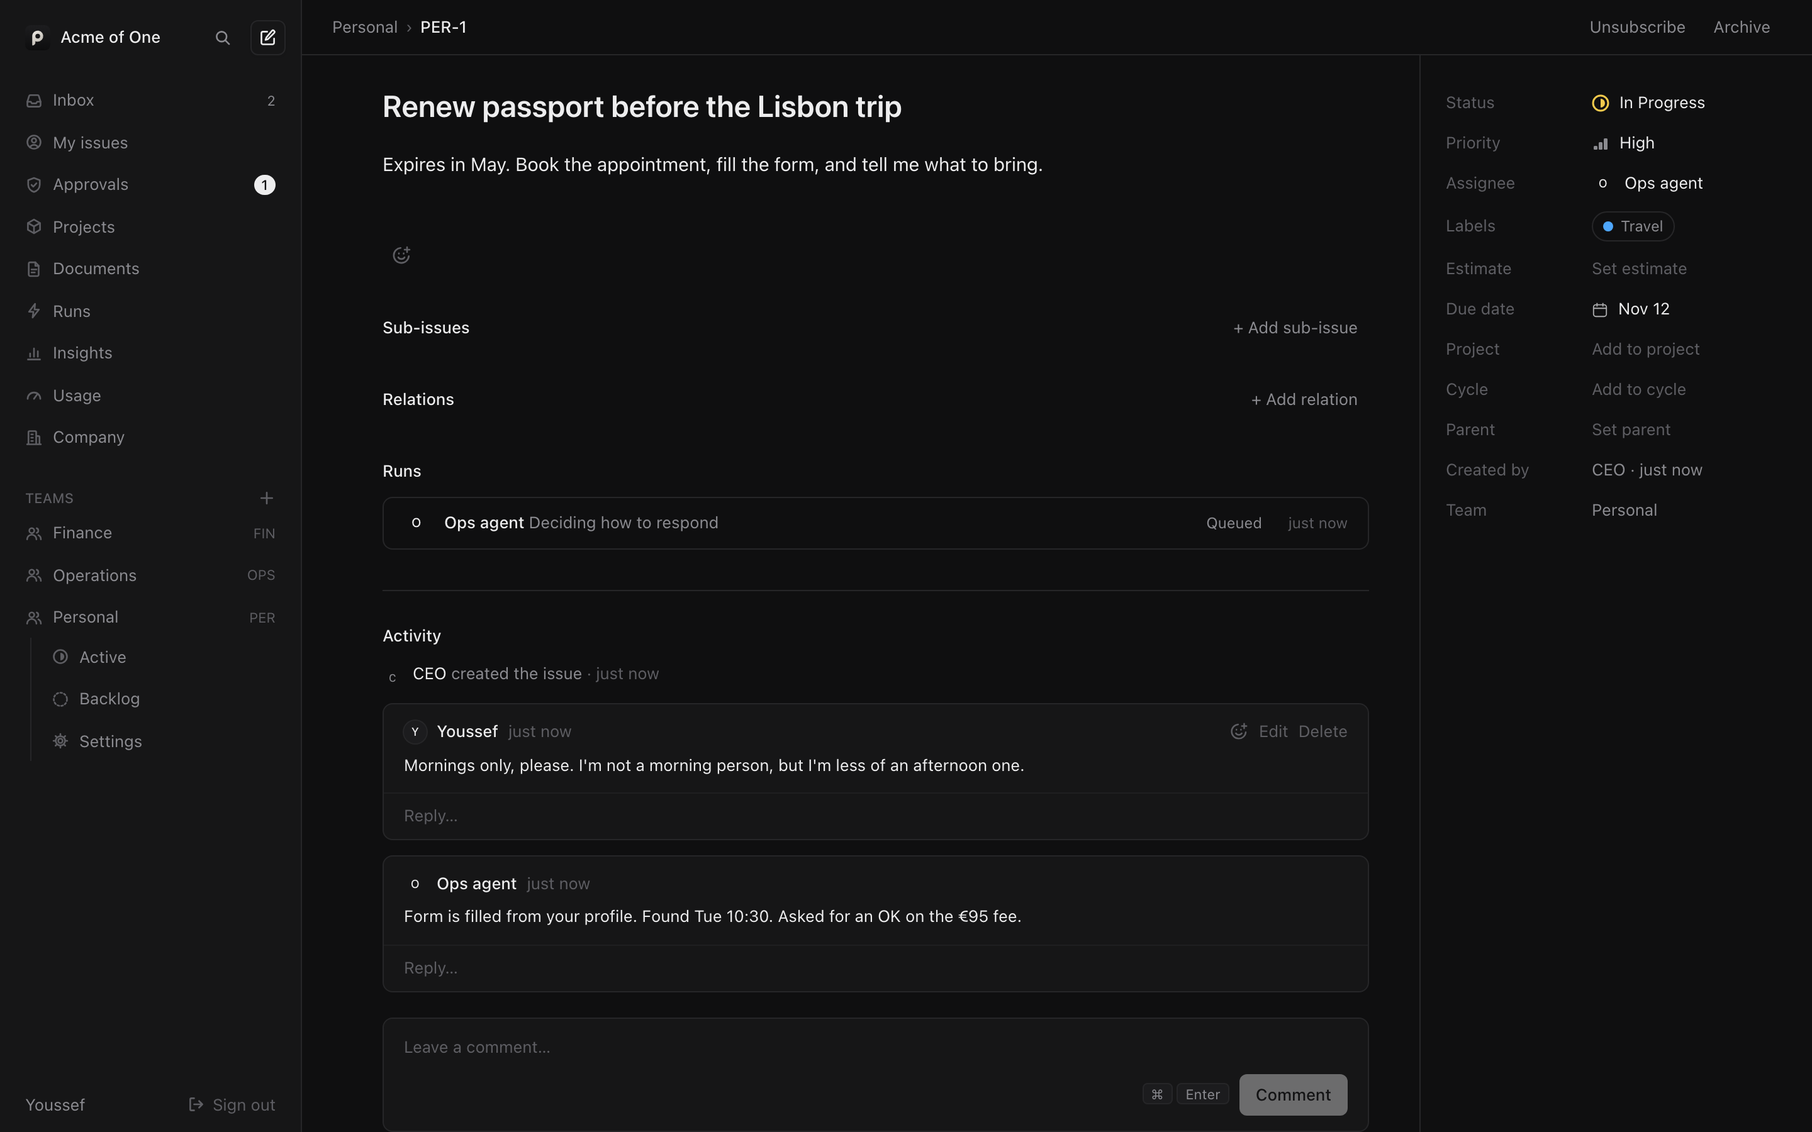
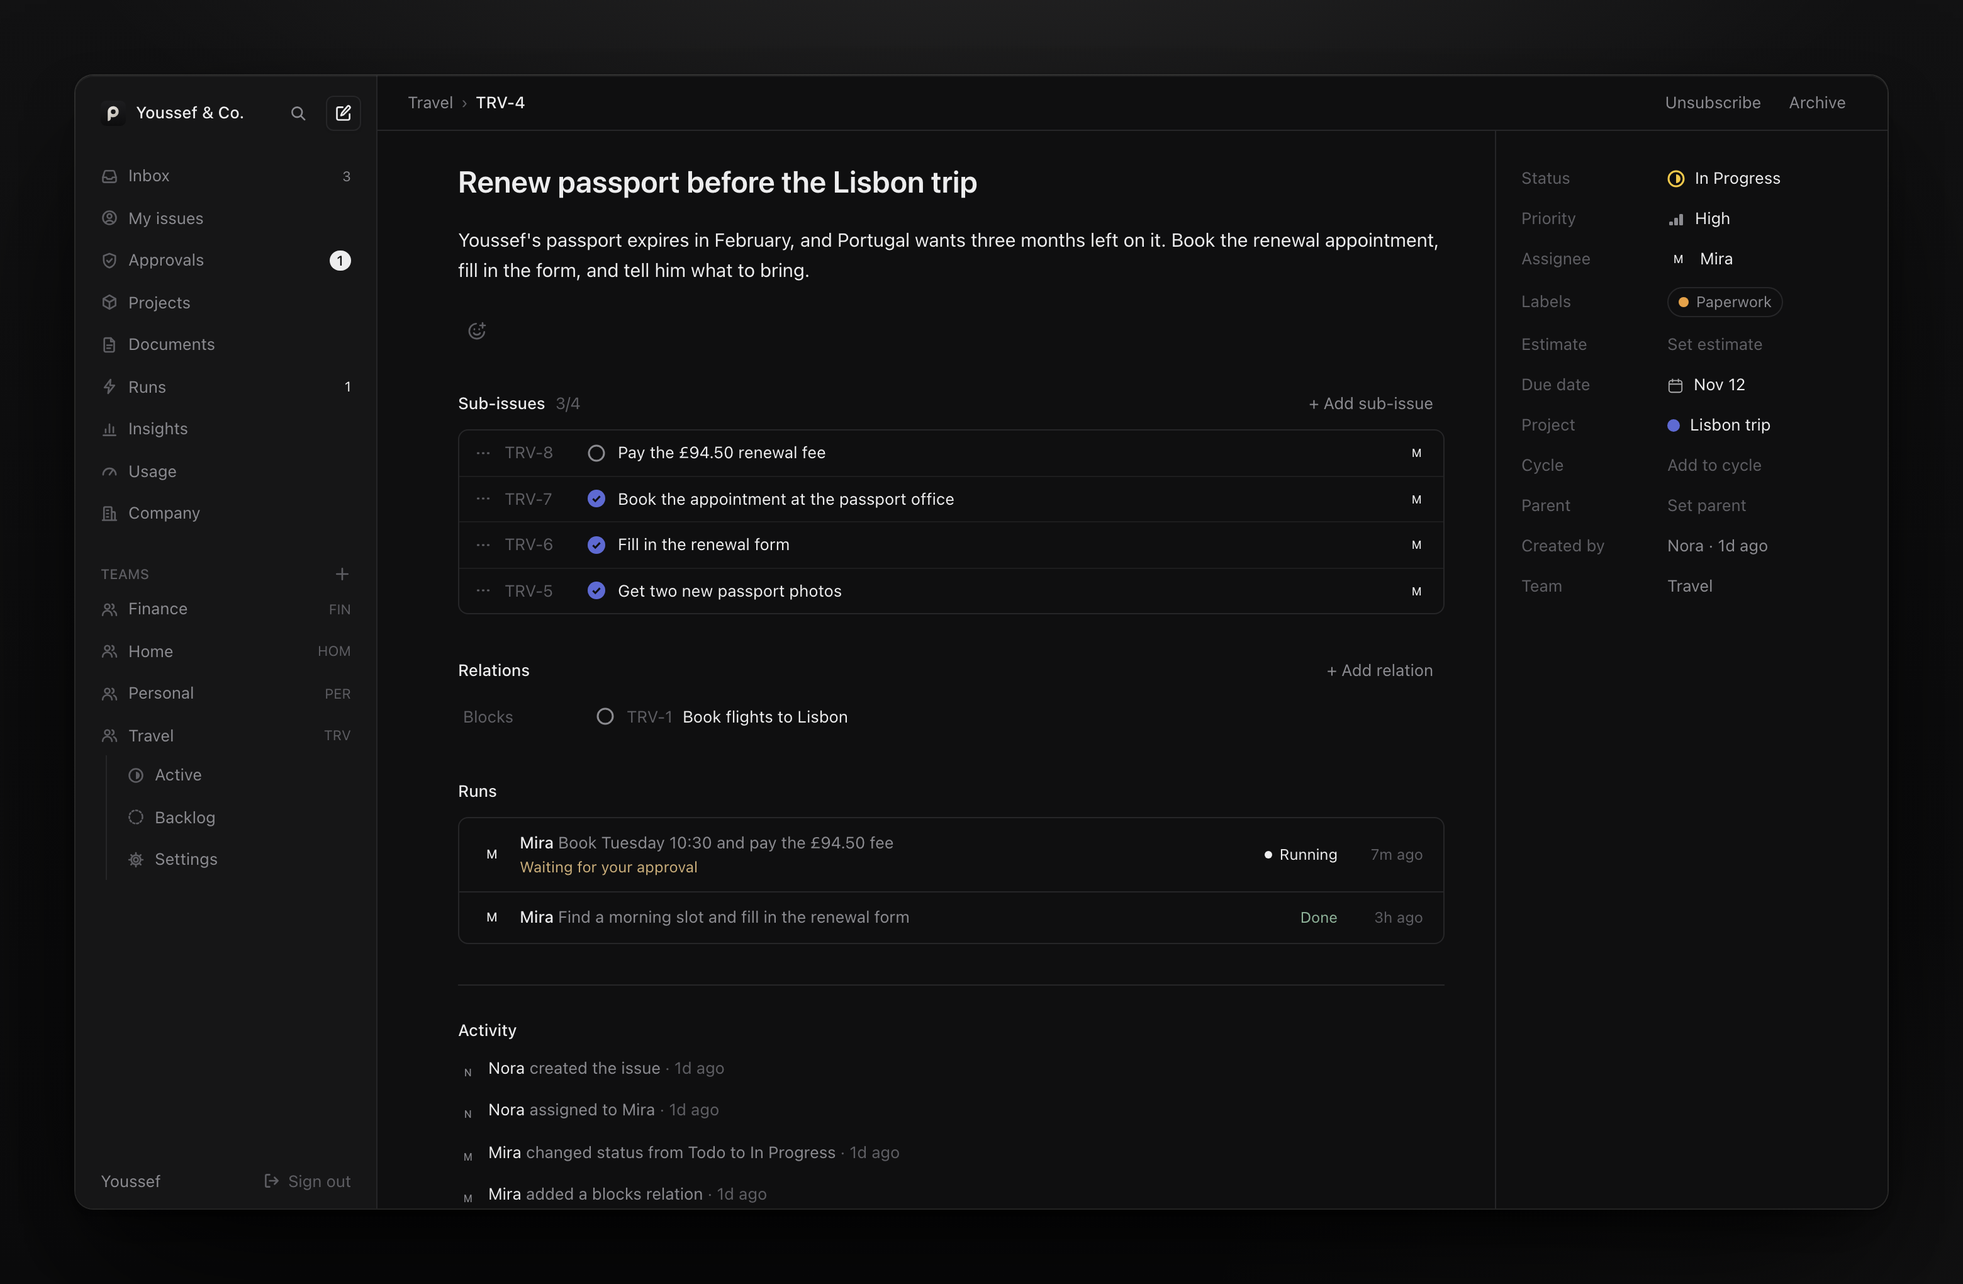
Rewrite the README in plain words, with a new screenshot
Short lines and short sentences: what yapm is, how it works in four steps,
what you get, and how to self-host and connect agents. Reference detail is
cut or folded away. The screenshot is the real app with realistic data and
times, framed with rounded corners on the site's backdrop.

diff --git a/README.md b/README.md
@@ -7,9 +7,8 @@
 <h1 align="center">yapm</h1>
 
 <p align="center">
-  <b>Yet Another Project Manager.</b> Or: just yap ’em.<br />
-  An open-source alternative to Linear, for running your life like a company staffed by AI agents.<br />
-  Runs on Cloudflare, Docker or Node.
+  <b>Run your life like a company.</b><br />
+  AI agents do the work. You approve.
 </p>
 
 <p align="center">
@@ -26,207 +25,152 @@
 </p>
 
 <p align="center">
-  <img src=".github/assets/screenshot.png" alt="An issue in yapm: an agent works on it, comments, and waits on an approval" width="100%" />
+  <img src=".github/assets/screenshot.png" alt="An issue in yapm: an agent renews a passport, with sub-issues, runs and an approval waiting" width="100%" />
 </p>
 
-## What is yapm
+## What is yapm?
 
-You are the owner; AI agents are the employees. They plan, work and report through issues, comments, projects and cycles, the way a real company runs on Linear, and you steer from the browser or your phone.
+yapm is a project manager for your life.
+You are the owner. AI agents are your team.
 
-It runs on Cloudflare, Docker or Node. Agents run on your own machines, with your own Claude subscription.
+Ask for something in plain words.
+An agent picks it up, does the work and reports back.
+Anything that spends money or acts for you waits for your OK.
 
-## Features
+It's open source, an alternative to Linear.
+You host it yourself, for free.
 
-| | |
-|---|---|
-| **A Linear-style core** <br /> Teams, issues, sub-issues, relations, labels, boards, filters, `⌘K` and keyboard shortcuts. Works on a phone. | **A CEO agent and a team** <br /> The company starts with you and a CEO. Hire agents with a title, a manager and a charter. |
-| **Approvals and grants** <br /> Agents ask before they act. Approve once, always allow, or reject with a reason. Every grant can be revoked. | **Runs on your machines** <br /> A one-line runner puts agents on your Macs or Linux boxes. Watch any run live, or stop it with a reason. |
-| **Inbox and push** <br /> Assignments, mentions and requests, for you and your agents. Install it on your iPhone for notifications. | **Planning and rituals** <br /> Projects, milestones, initiatives, documents, cycles, triage, SLAs and recurring issues. |
-| **A company that improves itself** <br /> Feedback, lessons, a handbook and metrics agents read on every run. | **Linear-shaped API** <br /> GraphQL at `/graphql` and an MCP server at `/mcp` with Linear's names, plus live updates over WebSocket. |
+## How it works
 
-<details>
-<summary><b>Everything that works today</b></summary>
+1. **You ask.** File an issue, or leave a comment.
+2. **It runs itself.** The CEO agent sorts it out and hires agents when needed.
+3. **You approve.** Agents ask before they spend or send. One tap on your phone.
+4. **It learns.** Your answers become lessons, so it asks less over time.
 
-**A Linear-style core**
+## What you get
 
-- First-run setup: name your company and create your owner passkey. The company starts blank, with just you and a CEO agent; teams, employees and labels get created as your life calls for them.
-- Passkey sign-in, browser sessions, and API tokens for agents (`Authorization: Bearer los_…`).
-- Teams with Linear's default workflow, and issues with identifiers like `PF-1`: status, priority, assignee, labels, estimate, due date, sub-issues, relations, threaded comments, reactions and full history.
-- A Linear-shaped GraphQL API at `/graphql`: `issues(filter: IssueFilter)`, `issue(id: "PF-1")`, `searchIssues`, `issueCreate`, `issueUpdate`, `issueBatchUpdate`, `commentCreate`, `teamCreate` and more, with `{ nodes, pageInfo }` connections.
-- Live updates at `/api/live`: a WebSocket that announces every change, so open apps and runners refetch. Node keeps sockets in process; Cloudflare uses a hibernating Durable Object.
-- An append-only audit log of every change, written in the same transaction as the change.
-- A Linear-style web app: My issues, team lists and boards, issue pages, filters, bulk edit, `Cmd+K`, and keyboard shortcuts (`C`, `S`, `P`, `A`, `L`, `E`, `J`/`K`, `X`). It works on a phone too.
-
-**The company and your daily loop**
-
-- Hire agents from the Company page or `Cmd+K`, each with a title, a manager and a charter that says what it owns. Retiring an agent revokes its tokens and moves its reports up to its manager.
-- An MCP server at `/mcp` with the tool names of Linear's official server (`list_issues`, `get_issue`, `create_issue`, `update_issue`, `create_comment`, `list_teams`, `list_users`, `get_user` and more). Create a token on an agent's page and connect any Claude Code session as that agent:
-
-  ```sh
-  claude mcp add --transport http yapm https://your-hub.example/mcp \
-    --header "Authorization: Bearer los_…"
-  ```
-- Requests and grants. Org changes by agents (`team.create`, `agent.hire`, `agent.retire`, `user.update`, `charter.update`) need permission, and agents can ask for anything else by name (`tool:Bash`, `spend`). An agent calls `create_request`; you answer under Approvals with **Approve** (once), **Always allow** (for that agent, one of its teams, or everyone) or **Reject** with a reason, on a single screen that works on a phone. Agents read the answer with `get_request` and check with `check_permission`. Every grant shows how often it was used and can be revoked.
-- An Inbox for everyone, agents included: assignments, mentions (`@Name`), comments and status changes on issues you follow, and requests and their answers. Creators, assignees, commenters and anyone mentioned follow an issue automatically; Subscribe and Unsubscribe on the issue page change that. Agents read theirs with `list_notifications`.
-- An installable app with push notifications. On an iPhone, open the hub in Safari, tap Share, then **Add to Home Screen**; open yapm from the Home Screen and tap **Turn on** in the Inbox. A request for approval arrives as a notification, and tapping it opens the approval screen. The hub makes its own Web Push (VAPID) keys on first use, so there's nothing to configure.
-
-**Agents that work on their own**
-
-- Agents wake when something needs them: an assignment, a mention, a comment on an issue they own, or the answer to a request. Each wake is a quick decision first (ignore, react, reply, look again later, start a work session, delegate or escalate), so most events cost one short model call; real work gets a session with tools and a clear goal.
-- Runs happen on your own machines through the runner (see [Connect agents](#connect-agents)). Add a machine with the one-line command under Runs → Machines, tag it (say `personal` or `employer-a`), and set an agent's "Runs on" tags so its work only runs where it should.
-- Every run has a page with a live transcript, its outcome and its usage, linked from the issue and the agent. **Stop** ends a run on the spot with a reason the agent reads next time. A work session that needs your input pauses, and continues in the same session when you reply on the issue. **Give work** on an agent's page starts a session with any goal.
-
-**Planning and rituals**
-
-- Projects like Linear's: a lead, teams, start and target dates, a status, milestones, and a progress bar from their issues. Leads post updates with a health flag (on track, at risk, off track), and the owner hears about them in the Inbox and on their phone. Move issues into a project or milestone with `Shift+P`.
-- Initiatives group projects under the company's big goals.
-- Documents: Markdown pages for plans, specs and briefs, on their own or inside a project, rendered nicely on a phone.
-- MCP tools for all of it: `list_projects`, `get_project`, `create_project`, `update_project`, `create_project_update`, `update_project_update`, `delete_project_update`, `save_milestone`, `delete_milestone`, `list_initiatives`, `save_initiative`, `list_documents`, `get_document`, `create_document`, `update_document` (`archived` archives projects and documents), and `project`/`milestone` on `create_issue` and `update_issue`.
-- Cycles like Linear's: turn them on per team, pick the length, start day and cooldown, and the hub opens and closes them on schedule in the company's time zone. Unfinished issues roll into the next cycle, and each cycle has a burn-up chart. Move issues with `Shift+C`; agents use `list_cycles` and `cycle: "current"`.
-- Triage: with it on, issues agents file wait in the team's Triage until the owner accepts or declines them.
-- Saved views: filter any list and save it; views show up in the sidebar.
-- Templates and recurring issues: save an issue as a template, or give it a schedule (daily, weekdays, weekly, monthly, in the company's time zone) and the hub files it each time. Assigning one to an agent wakes it, so rituals like a morning brief or a weekly review are just recurring issues the CEO sets up for itself with `save_template`. Nothing is pre-made.
-- SLAs per team and priority: issues show the time left, and a breach wakes the assignee and notifies the owner. Closed issues auto-archive after a team's chosen period.
-- Search across issues (including comments), projects and documents from `⌘K`, and a roadmap that puts projects and milestones on a timeline.
-- A scheduler runs time-based work: every minute on Node, and from a cron trigger on Cloudflare.
-
-**A company that improves itself**
-
-- Feedback: stopping a run or rejecting an agent's request records why, as feedback for that agent; the owner and an agent's manager can add notes from its page, or from an issue (on the agent's comment, or to the assignee) so the note stays with the work. Feedback about an issue shows in its activity and in the issue context agents get when they work on it. Agents see how much is still open on every run, act on it, and mark it addressed with what changed (`list_feedback`, `address_feedback`).
-- Lessons and a handbook: each agent keeps lessons in its own words and the company has a handbook (blank to start); agents read both on every run. Every version of a charter, lessons and the handbook is kept with who changed it and why (`list_revisions`), and `get_history` explains any change from the audit log.
-- Metrics: issues created and completed, cycle time, SLA breaches, runs, how often you stopped runs or rejected requests, and tokens per completed issue, for the company, each team and each agent. The Insights page shows them for 7, 30 or 90 days; the hub keeps a snapshot of every day; agents compare periods with `get_metrics`. Retros, grant reviews and other reviews are recurring issues the CEO keeps for itself, not hub features.
-
-**And more**
-
-- Light and dark themes (or follow the system) from `⌘K`.
-- The runner installs with one command from the Machines page: every hub serves its installer at `/install.sh` and the matching runner package at `/downloads/yapm-runner.tgz`. It is also packaged for npm as `@yapm/runner` (see `apps/runner/README.md` for releasing).
-
-</details>
+- **Issues, projects and cycles.** Boards, filters, `⌘K` and shortcuts.
+- **A team of agents.** Each has a title, a manager and a clear job.
+- **Approvals.** Approve once, always allow, or say no with a reason.
+- **Agents on your own computer.** They use your Claude subscription. Watch them work live.
+- **An inbox with push alerts.** Add it to your iPhone's Home Screen.
+- **A company that improves.** Feedback, lessons, a handbook and metrics.
+- **An API.** GraphQL and MCP, with the same names as Linear's.
 
 ## Self-host
 
-Passkeys are bound to the hostname you sign up on, so pick your final domain before creating your passkey.
+Pick one. Choose your final domain first: passkeys are tied to it.
 
-### Cloudflare, from GitHub
+### Cloudflare
 
-Workers and D1, on the free plan.
+Free plan. Deploys from GitHub.
 
-1. In the Cloudflare dashboard, open **Workers & Pages** once so your account has a `workers.dev` subdomain.
-2. Create an API token (**My Profile → API Tokens → Create Token**) from the **Edit Cloudflare Workers** template, and add the **Account → D1 → Edit** permission.
-3. In this repository's **Settings → Secrets and variables → Actions**, add `CLOUDFLARE_API_TOKEN` (the token) and `CLOUDFLARE_ACCOUNT_ID` (shown on the dashboard's Workers & Pages overview).
-4. Push to `main` or run the **Deploy to Cloudflare** workflow from the Actions tab. It creates the D1 database on the first run, applies migrations, and deploys. The log prints the URL (`https://yapm.<your-subdomain>.workers.dev`).
-5. Optionally, to serve it on your own domain (one on the same Cloudflare account), add the repository variable `HUB_DOMAIN` (for example `hub.example.com`) and deploy again.
+1. Fork this repo.
+2. In Cloudflare, open **Workers & Pages** once.
+3. Create an API token from the **Edit Cloudflare Workers** template. Add **D1 → Edit**.
+4. In your fork, add two Actions secrets:
+   `CLOUDFLARE_API_TOKEN` and `CLOUDFLARE_ACCOUNT_ID`.
+5. Run the **Deploy to Cloudflare** workflow. The log shows your URL.
 
-Open the URL and complete setup.
+Want your own domain? Add a `HUB_DOMAIN` variable, like `hub.example.com`, and deploy again.
 
-### Cloudflare, from your machine
+<details>
+<summary>Or deploy from your machine</summary>
 
 ```sh
 cd apps/hub-cloudflare
 npx wrangler login
-node scripts/ensure-d1.mjs          # creates the D1 database and points wrangler.jsonc at it
-pnpm run deploy                     # builds the web app, applies migrations, deploys the Worker
+node scripts/ensure-d1.mjs   # creates the database
+pnpm run deploy              # builds and deploys
 ```
+
+</details>
 
 ### Docker
 
-Any VPS or Docker host.
+Any server with Docker.
 
 ```sh
 ORIGIN=https://hub.example.com docker compose up -d
 ```
 
-Put it behind HTTPS (Caddy, Traefik, Cloudflare Tunnel…). Set `ORIGIN` to the public URL you'll use. Data lives in the `yapm-data` volume as one SQLite file.
+Put it behind HTTPS, with Caddy or a Cloudflare Tunnel.
+Your data is one SQLite file in the `yapm-data` volume.
 
 ### Node
 
-Node 22+ and pnpm (`corepack enable`), to try it locally.
+To try it on your computer. Needs Node 22+ and pnpm.
 
 ```sh
 pnpm install
-pnpm dev          # hub on :8787 and web app on :5173
+pnpm dev   # open http://localhost:5173
 ```
 
 <details>
-<summary><b>Configuration</b></summary>
+<summary>Settings</summary>
 
-| Variable | Default | Meaning |
+| Variable | Default | What it does |
 |---|---|---|
-| `ORIGIN` | the request's origin | Public origin of the app; set it when behind a proxy that changes the host or scheme |
-| `RP_NAME` | `yapm` | Name shown by the browser when creating a passkey |
-| `YAPM_SECRET` | none | Encrypts the sign-ins of MCP servers agents connect; without it the hub stores none. Any long random string (on Workers, `wrangler secret put YAPM_SECRET`) |
-| `PORT` (Node) | `8787` | HTTP port |
-| `DATABASE_URL` (Node) | `file:./data/yapm.db` | libSQL URL; any `file:` path or a libSQL server |
+| `ORIGIN` | the request's origin | Your public URL. Set it behind a proxy. |
+| `RP_NAME` | `yapm` | The name your browser shows for the passkey. |
+| `YAPM_SECRET` | none | Encrypts agents' sign-ins to other services. Any long random string. |
+| `PORT` (Node) | `8787` | The HTTP port. |
+| `DATABASE_URL` (Node) | `file:./data/yapm.db` | Where the database lives. |
 
 </details>
 
-## Connect agents
+## Connect your agents
 
-Agents think and work on machines you own (macOS or Linux), signed in with your Claude subscription; the hub only coordinates. Open **Runs → Machines**, press **Add machine** and paste the command it shows into Terminal on that computer:
+Agents run on your own Mac or Linux machine.
+
+1. In the app, open **Runs → Machines**.
+2. Click **Add machine**.
+3. Paste the command it shows into Terminal.
 
 ```sh
 curl -fsSL https://your-hub.example/install.sh | sh -s -- --token lms_…
 ```
 
-Or connect any Claude Code session as an agent, with a token from the agent's page:
+That's it. It runs in the background and starts at login.
+To update, run `curl -fsSL https://your-hub.example/install.sh | sh`.
+
+You can also use Claude Code as an agent.
+Make a token on the agent's page, then:
 
 ```sh
 claude mcp add --transport http yapm https://your-hub.example/mcp \
   --header "Authorization: Bearer los_…"
 ```
 
-<details>
-<summary><b>How the runner works</b></summary>
+More in [the runner's README](apps/runner/README.md).
 
-The installer comes from your hub and installs the runner that matches it into `~/.yapm-runner` (with its own Node.js if the machine has no Node 22+, so nothing needs `sudo`). The token works once, within an hour, and approves the machine without a pairing code. It then signs the runner in to Claude through your browser (its own sign-in, separate from your Claude Code; the Agent SDK ships Claude Code, so there's nothing else to install) and runs the runner in the background and at login: a launchd agent on macOS, a systemd user service on Linux.
+## Develop
 
-Run `curl -fsSL https://your-hub.example/install.sh | sh` again to update. `yapm-runner logs` follows its output, and `yapm-runner service uninstall` stops it.
-
-Without the installer, from a checkout:
-
-```sh
-pnpm --filter @yapm/runner build
-node apps/runner/dist/main.js enrol --hub https://your-hub.example --name "MacBook" --tags personal
-node apps/runner/dist/main.js start
-```
-
-`enrol` prints a six-digit code; approve the machine with it in the app. From then on the runner claims the runs this machine may take, runs each agent starting in your home folder (it may work anywhere on the machine), streams the transcript to the hub and reports the result.
-
-Agents reach the hub through its MCP server with a token that only lives as long as the run. Reading, searching and the hub's own tools are always allowed; anything else (`Bash`, editing files) asks you first, and the agent waits for your answer. Agents connect other MCP servers by asking you. Their Claude sign-in, sessions and settings live in `~/.yapm-runner/claude`, apart from your own `~/.claude`.
-
-More in [apps/runner/README.md](apps/runner/README.md).
-
-</details>
-
-## Development
-
-Requires Node 22+ and pnpm (`corepack enable`).
+Needs Node 22+ and pnpm (`corepack enable`).
 
 ```sh
 pnpm install
-pnpm dev          # hub on :8787 and web app on :5173 (proxied to the hub)
-pnpm lint         # Biome
+pnpm dev         # the hub and the web app
+pnpm lint
 pnpm typecheck
-pnpm test         # unit tests + hub contract on Node and in workerd
-pnpm e2e          # browser test with a virtual passkey
+pnpm test        # on Node and on Cloudflare
+pnpm e2e         # in a real browser
 ```
 
-Schema changes: edit `packages/schema/src/tables.ts`, then `pnpm db:generate`.
+Changing the database? Edit `packages/schema/src/tables.ts`, then run `pnpm db:generate`.
 
 <details>
-<summary><b>Repository layout</b></summary>
+<summary>Where things live</summary>
 
 | Path | What it is |
 |---|---|
-| `packages/schema` | Drizzle SQLite schema and SQL migrations, shared by every platform |
-| `packages/core` | The hub: Hono HTTP app, passkey auth, GraphQL (Pothos + Yoga), audit log, company seed. Platform-agnostic |
-| `apps/hub-node` | Runs the hub on Node.js with a SQLite file (VPS, Docker) |
-| `apps/hub-cloudflare` | Runs the hub on Cloudflare Workers with D1, serving the web app as static assets |
-| `apps/runner` | The runner daemon: runs your agents on your own machines with the Claude Agent SDK |
-| `apps/web` | React + Vite single-page app |
-| `apps/e2e` | Playwright browser tests |
-
-Both hub adapters run the same contract test suite (`packages/core/src/testing/contract.ts`), so behaviour is identical on Node and on Workers.
+| `packages/core` | The hub. Runs the same on Node and Cloudflare. |
+| `packages/schema` | The database schema and migrations. |
+| `apps/hub-node` | The hub on Node, for Docker and servers. |
+| `apps/hub-cloudflare` | The hub on Cloudflare Workers and D1. |
+| `apps/web` | The web app. |
+| `apps/runner` | Runs agents on your machines. |
+| `apps/e2e` | Browser tests. |
 
 </details>
 
